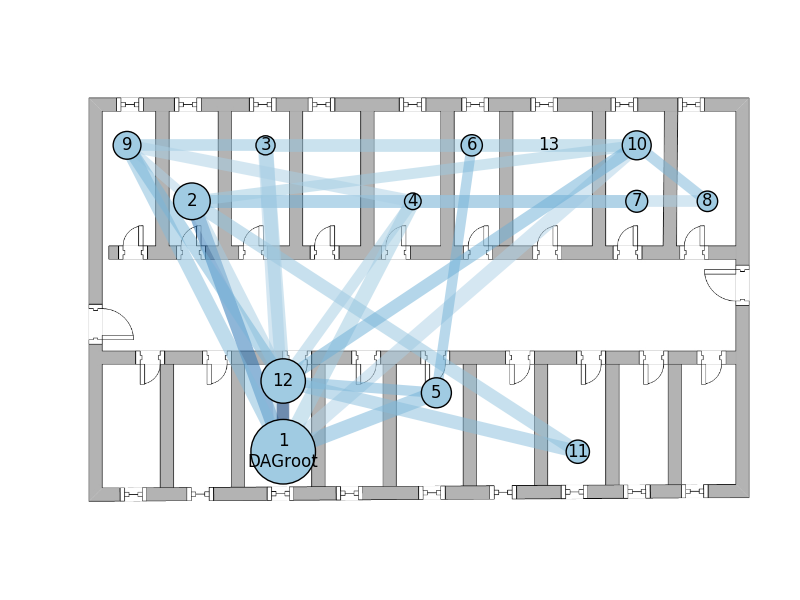
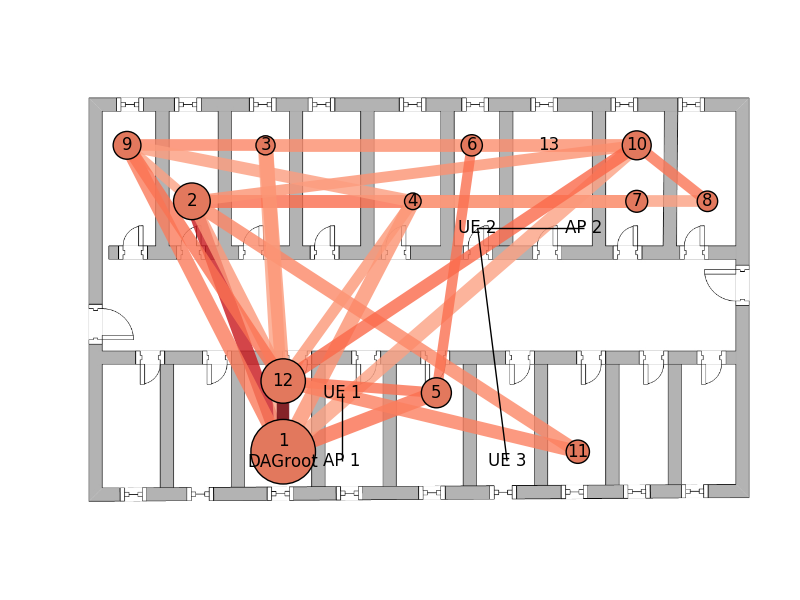
IF network graph

Changed region(s): [[0.125, 0.21, 0.9062, 0.81]]

diff --git a/data-processing/topologyProcessor.py b/data-processing/topologyProcessor.py
@@ -107,7 +107,16 @@ class TopologyLogProcessor(LogProcessor):
         :param axis:
         :return:
         """
+        #IF Graph
+        IF = nx.Graph()
+        IF_nodes = [15,16,17,18,19]
+        IF_edges = [(15,16),(17,18),(18,19)]
+        IF_pos = {15: (430, 616), 16: (430, 500), 17: (840, 220), 18:(660,220) , 19: (710, 616)}
+        IF_labels = {15:"AP 1",16:"UE 1",17:"AP 2",18:"UE 2",19:"UE 3"}
+        IF.add_nodes_from(IF_nodes)
+        IF.add_edges_from(IF_edges)
 
+        #WSN Graph
         G = nx.Graph()
 
         # print(nodes)
@@ -149,11 +158,11 @@ class TopologyLogProcessor(LogProcessor):
         # finally draw
         # width - RSSI, color intensity - occurences
         if axis is None:
-            nx.draw_networkx_edges(G, pos, alpha=0.5, width=edgewidth,
-                                   edge_color=colors, edge_cmap=plt.cm.Blues, edge_vmin=-50, edge_vmax=max(colors),
+            nx.draw_networkx_edges(G, pos, alpha=0.8, width=edgewidth,
+                                   edge_color=colors, edge_cmap=plt.cm.Reds, edge_vmin=-50, edge_vmax=max(colors),
                                    with_labels=True)
 
-            nx.draw_networkx_nodes(G, pos, node_color='#A0CBE2', node_size=w_nodes, with_labels=True)
+            nx.draw_networkx_nodes(G, pos, node_color='#E2785D', node_size=w_nodes, with_labels=True)
         else:
             nx.draw_networkx_edges(G, pos, ax=axis, alpha=0.5, width=edgewidth,
                                    edge_color=colors, edge_cmap=plt.cm.Blues, edge_vmin=-50, edge_vmax=max(colors),
@@ -165,10 +174,14 @@ class TopologyLogProcessor(LogProcessor):
         labels[1]="1\nDAGroot"
         for i in range(2,14):
             labels[i]=i
-
         nx.draw_networkx_labels(G, pos, labels, font_size=12)
 
         plt.axis('off')
+
+        #IF Graph plots
+        nx.draw_networkx_edges(IF, IF_pos)
+        #nx.draw_networkx_nodes(IF, IF_pos, node_color='#FFFFFF', with_labels=True)
+        nx.draw_networkx_labels(IF, IF_pos, IF_labels, font_size=12)
 
         return
 
